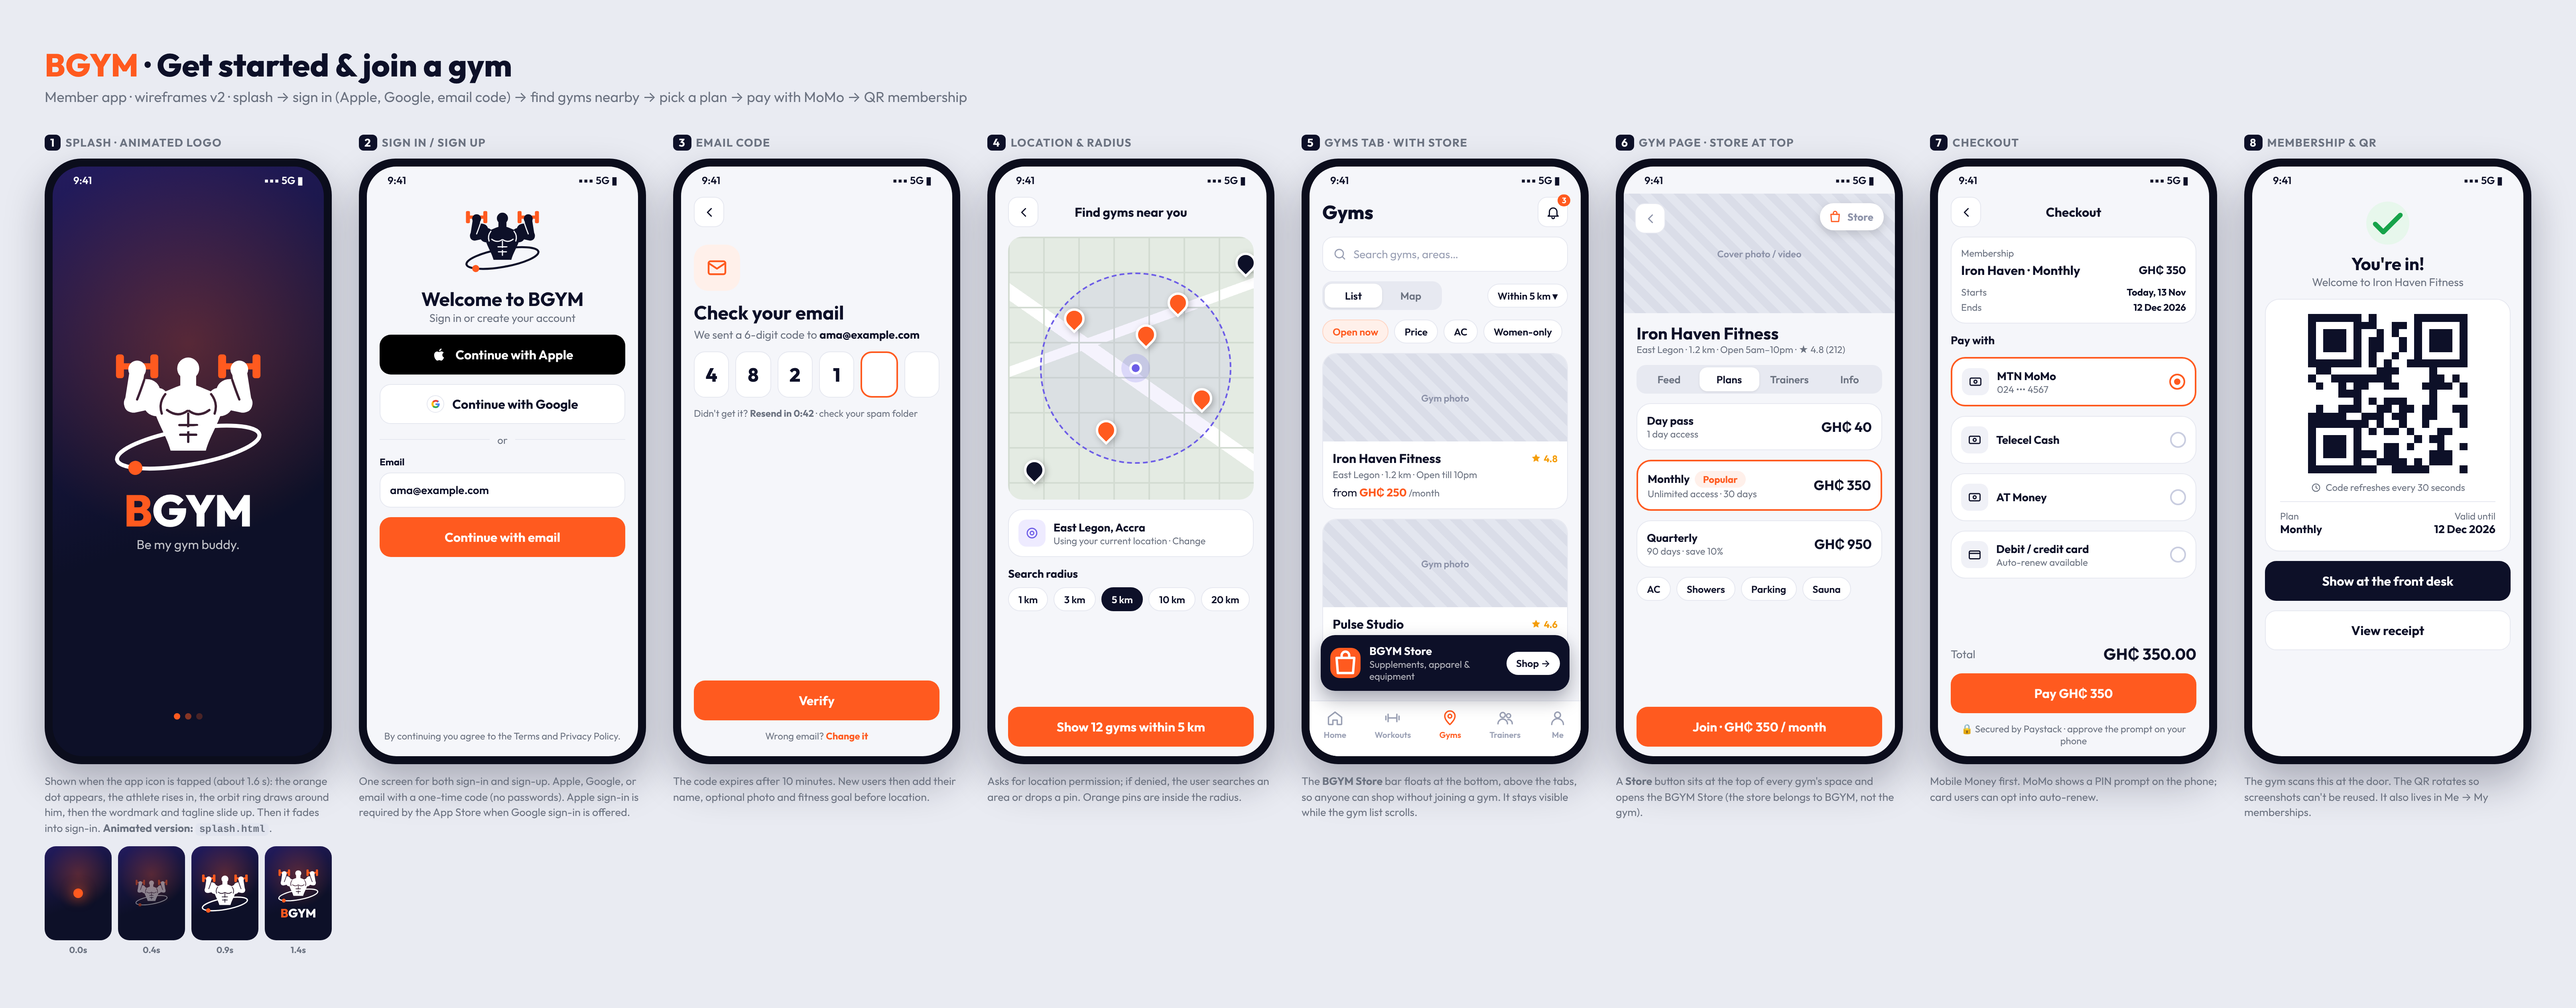
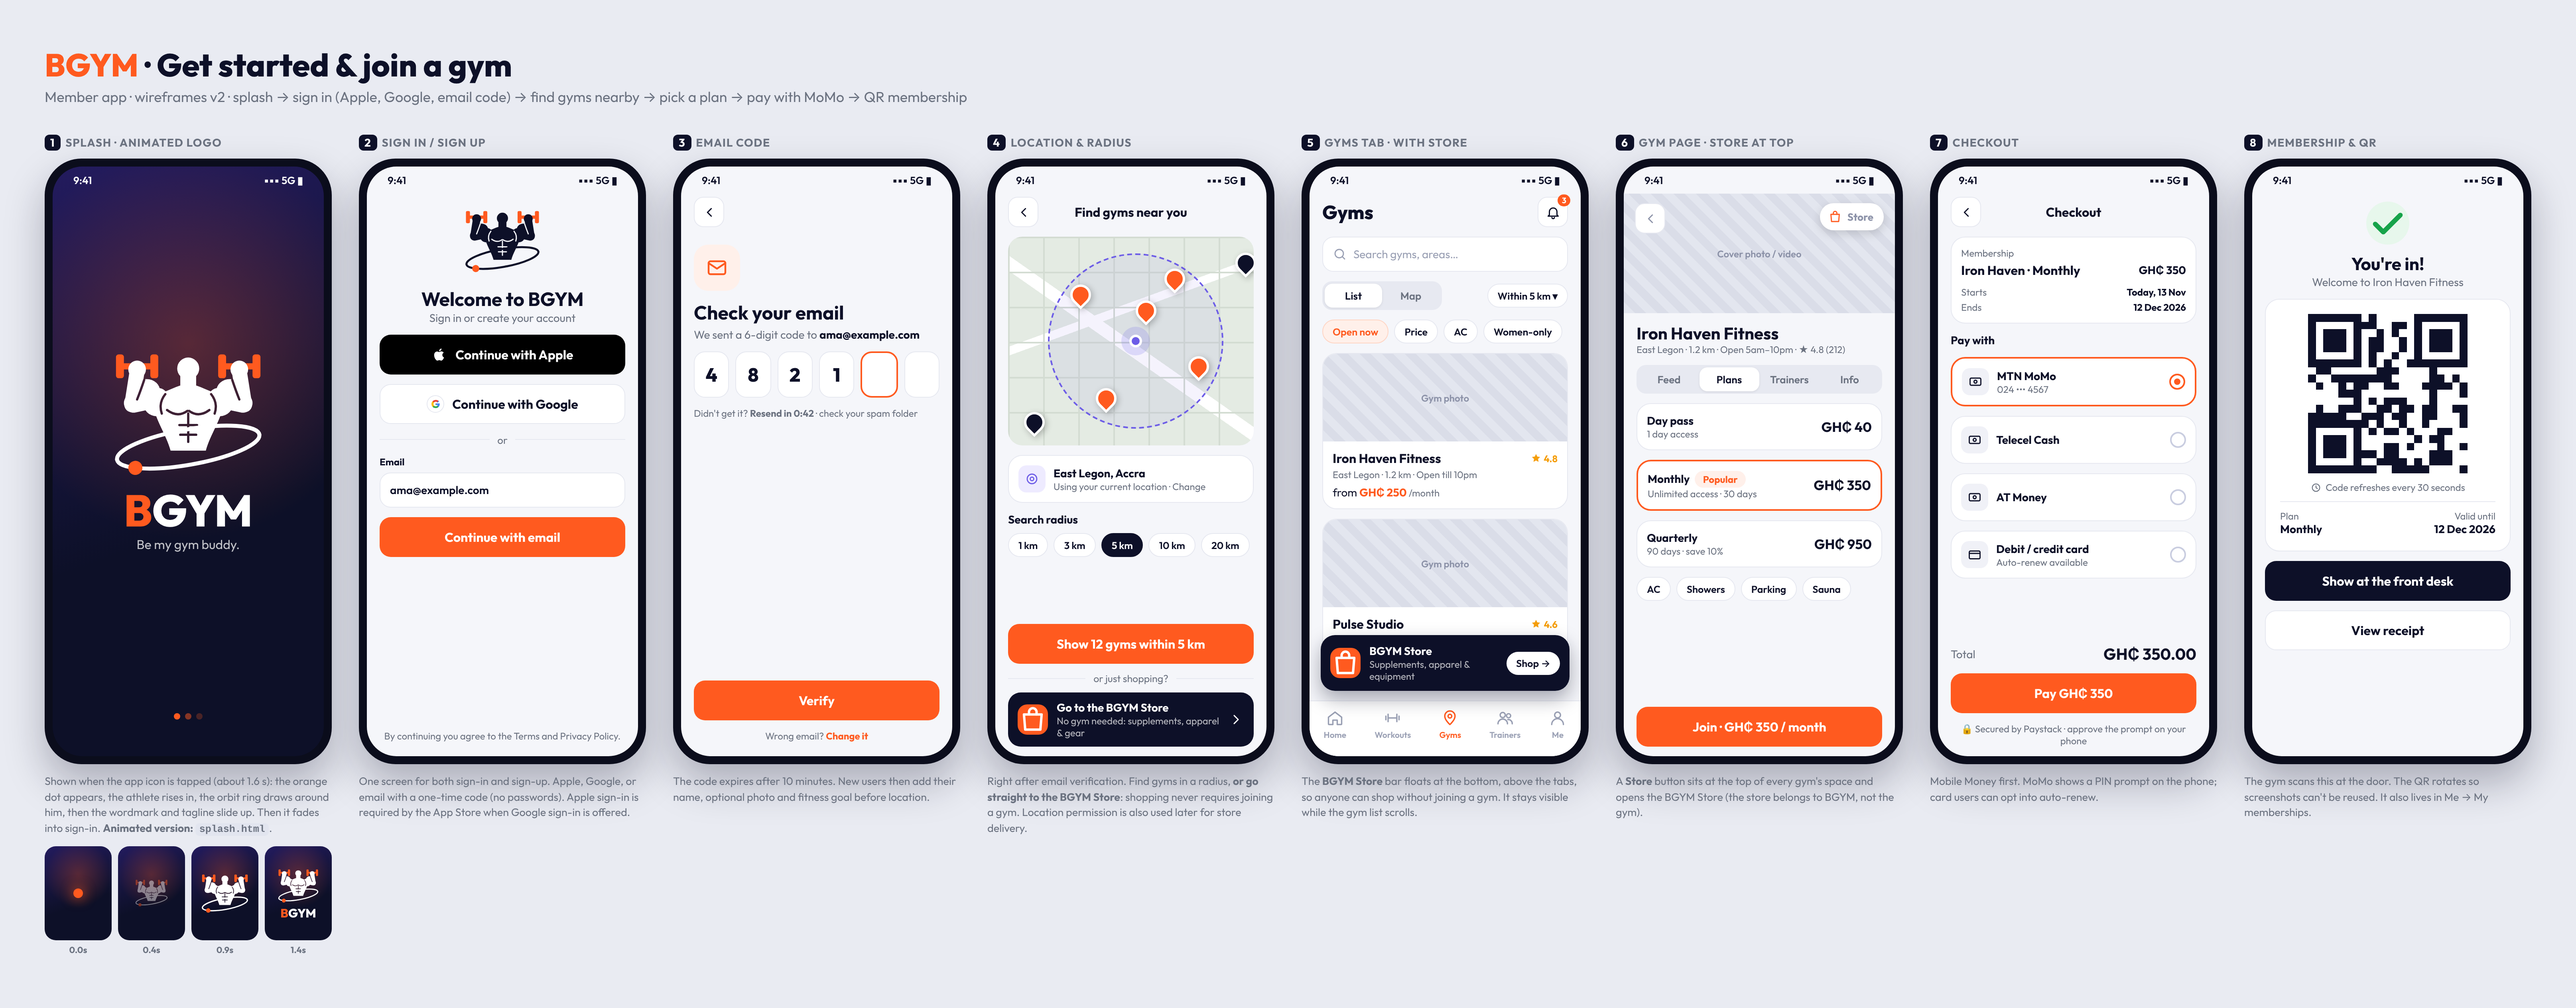
Wireframes: add BGYM Store option to the location step
Shoppers can go straight to the store after sign-in without joining a gym.

Claude-Session: https://claude.ai/code/session_01S4Em7mnpBhTnpGDtfAHUjn

Changed region(s): [[0.3734, 0.2498, 0.4978, 0.7494], [0.3734, 0.7806, 0.4978, 0.8119]]

diff --git a/design/wireframes/index.html b/design/wireframes/index.html
@@ -147,14 +147,18 @@ cell(3,'Email code',phone(`
  'The code expires after 10 minutes. New users then add their name, optional photo and fitness goal before location.'),
 cell(4,'Location & radius',phone(`
  ${backbar('Find gyms near you')}
- <div class="map" style="height:330px">
-  <div class="radius" style="left:40px;top:45px;width:240px;height:240px"></div><div class="me" style="left:152px;top:157px"></div>
-  ${[[70,90],[200,70],[230,190],[110,230],[160,110]].map(([x,y])=>`<div class="pin" style="left:${x}px;top:${y}px"></div>`).join('')}
-  <div class="pin m" style="left:20px;top:280px"></div><div class="pin m" style="left:285px;top:20px"></div></div>
+ <div class="map" style="height:262px">
+  <div class="radius" style="left:50px;top:21px;width:220px;height:220px"></div><div class="me" style="left:152px;top:123px"></div>
+  ${[[78,60],[196,40],[226,150],[110,190],[160,80]].map(([x,y])=>`<div class="pin" style="left:${x}px;top:${y}px"></div>`).join('')}
+  <div class="pin m" style="left:20px;top:220px"></div><div class="pin m" style="left:285px;top:20px"></div></div>
  <div class="card" style="display:flex;gap:10px;align-items:center"><div class="ico" style="background:#EEEBFF">${ic('target','#6C5CE7')}</div><div><div class="b">East Legon, Accra</div><div class="small muted">Using your current location · Change</div></div></div>
  <div><div class="b" style="margin-bottom:8px">Search radius</div><div class="chips">${['1 km','3 km','5 km','10 km','20 km'].map(k=>`<div class="chip ${k==='5 km'?'on':''}">${k}</div>`).join('')}</div></div>
- <div class="btn" style="margin-top:auto">Show 12 gyms within 5 km</div>`),
- 'Asks for location permission; if denied, the user searches an area or drops a pin. Orange pins are inside the radius.'),
+ <div class="btn" style="margin-top:auto">Show 12 gyms within 5 km</div>
+ <div style="display:flex;align-items:center;gap:10px;color:var(--mute);font-size:12.5px;margin:-2px 0"><span style="flex:1;height:1px;background:var(--line)"></span>or just shopping?<span style="flex:1;height:1px;background:var(--line)"></span></div>
+ <div style="background:var(--mid);color:#fff;border-radius:16px;padding:10px 12px;display:flex;align-items:center;gap:11px">
+  <div style="width:38px;height:38px;border-radius:12px;background:var(--flare);display:flex;align-items:center;justify-content:center;flex:none">${ic('bag','#fff')}</div>
+  <div style="flex:1"><div class="b">Go to the BGYM Store</div><div class="small" style="opacity:.7">No gym needed: supplements, apparel & gear</div></div><span style="width:20px;height:20px;display:inline-block">${ic('chev','#fff')}</span></div>`),
+ 'Right after email verification. Find gyms in a radius, <b>or go straight to the BGYM Store</b>: shopping never requires joining a gym. Location permission is also used later for store delivery.'),
 cell(5,'Gyms tab · with Store',phone(`
  ${topbar('Gyms',ibtn('bell',3))}
  <div class="search">${ic('search')}Search gyms, areas…</div>

diff --git a/docs/01-product-requirements.md b/docs/01-product-requirements.md
@@ -63,7 +63,7 @@ All web dashboards must be fully responsive (phone, tablet, laptop, desktop). Th
 - Payment history & receipts, saved delivery addresses, notifications, settings, support, logout.
 
 ### 3.6 Store (owned by BGYM, separate from gyms)
-- **Entry points:** a floating **BGYM Store** bar at the bottom of the Gyms tab (so people can shop without joining a gym), a **Store** button at the top of every gym page, and the Home feed banner.
+- **Entry points:** a **Go to the BGYM Store** option on the location & radius step right after sign-in (shopping never requires joining a gym), a floating **BGYM Store** bar at the bottom of the Gyms tab (so people can shop without joining a gym), a **Store** button at the top of every gym page, and the Home feed banner.
 - Categories: supplements, apparel, equipment, accessories.
 - Product page, cart, checkout with **map-pinned delivery location** (live location or drag pin) + contact phone + notes.
 - Delivery fee quoted at checkout; pay via Paystack; order tracking.

diff --git a/docs/08-decisions-and-open-questions.md b/docs/08-decisions-and-open-questions.md
@@ -27,7 +27,7 @@
 | D21 | Product name is **BGYM**, short for "Be my Gym buddy". Logo: muscled athlete raising dumbbells inside a tilted orbit ring (see `brand/`). |
 | D22 | Member sign-in: Apple, Google, or email + one-time code. No phone-number verification. |
 | D23 | App opens with an animated BGYM splash screen, then sign-in. |
-| D24 | Store entry points: floating Store bar on the Gyms tab, Store button at the top of every gym page, and the Home banner. |
+| D24 | Store entry points: "Go to the BGYM Store" on the location & radius step after sign-in (no gym needed), floating Store bar on the Gyms tab, Store button at the top of every gym page, and the Home banner. |
 
 ## Assumptions (please confirm or correct)
 

diff --git a/design/wireframes/README.md b/design/wireframes/README.md
@@ -7,7 +7,7 @@ Mid-fidelity wireframes in the BGYM look. Open `index.html` in a browser to view
 1. Splash: animated logo (open `splash.html` to see it play; frames in `png/splash-frames.png`)
 2. Sign in / sign up: Apple, Google, or email
 3. Email code: 6-digit one-time code
-4. Location & radius: use location or drop a pin, choose 1–20 km
+4. Location & radius: use location or drop a pin, choose 1–20 km, **or go straight to the BGYM Store** (no gym needed)
 5. Gyms tab: list/map, filters, plus a floating **BGYM Store** bar at the bottom
 6. Gym page: **Store** button at the top; Feed · Plans · Trainers · Info
 7. Checkout: MTN MoMo, Telecel Cash, AT Money, card (Paystack)

diff --git a/docs/02-user-flows.md b/docs/02-user-flows.md
@@ -7,7 +7,7 @@
 2. Continue with Apple, Continue with Google, or enter email → receive a 6-digit code by email → verify.
 3. Enter name (+ optional photo, fitness goal).
 4. Request location permission → if denied, pick area on map / search.
-5. Choose search radius → land on Gyms tab with nearby results.
+5. Choose search radius → land on Gyms tab with nearby results. Or tap **Go to the BGYM Store** to shop without joining a gym (see M8).
 
 ### M2. Find and join a gym
 1. Gyms tab → list/map of gyms within radius → apply filters.
